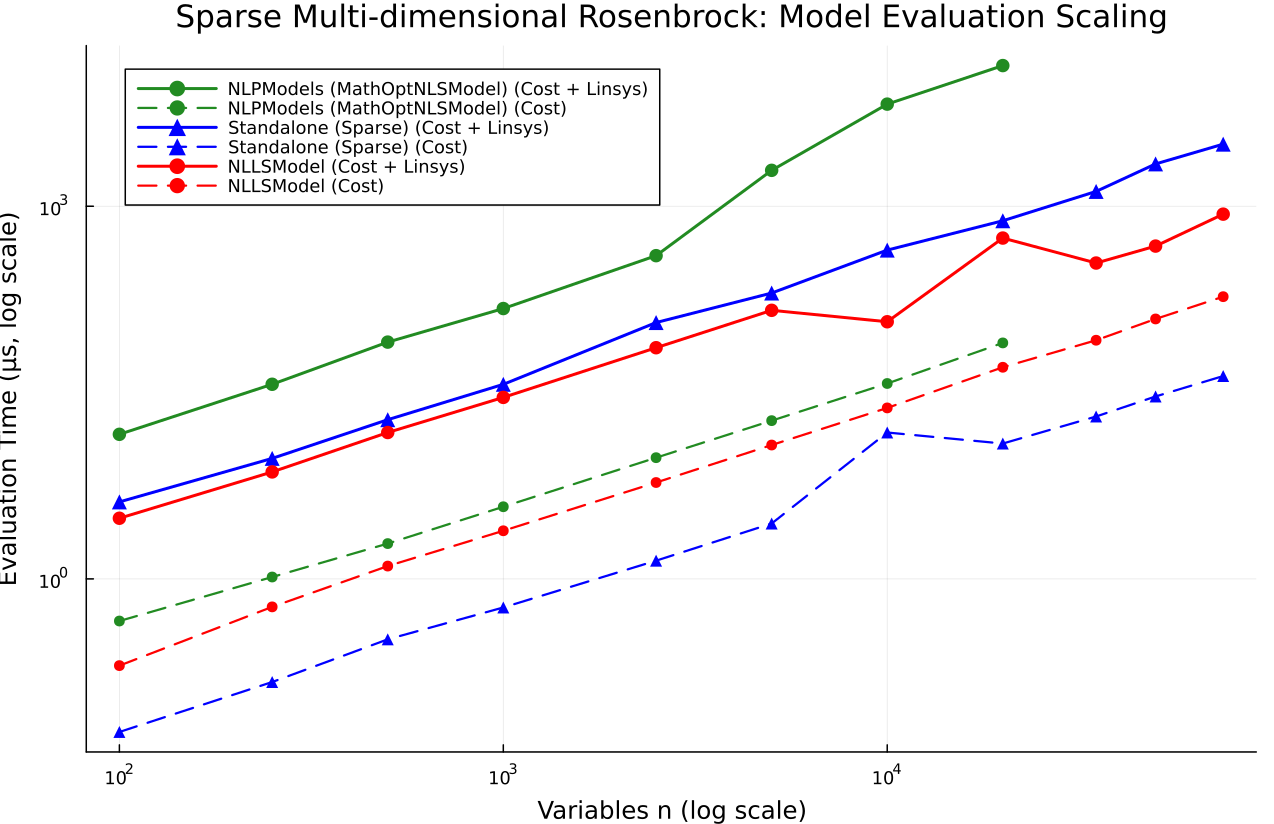
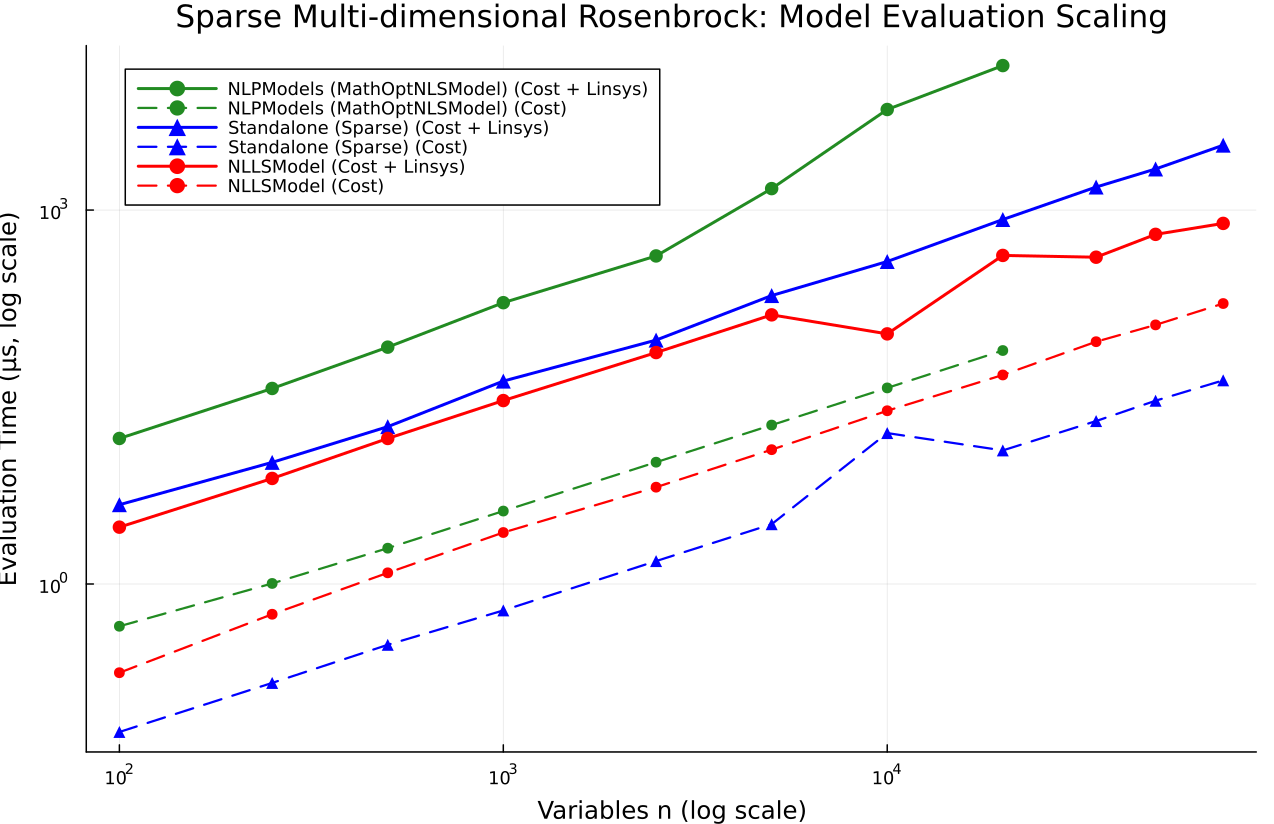
Update rosenbrock sparse results

diff --git a/docs/src/data/rosenbrock_sparse.md b/docs/src/data/rosenbrock_sparse.md
@@ -4,11 +4,11 @@
 - **Scaling Metric**: Variables n
 - **Optimizer Target Model**: Standalone (Sparse)
 - **Convergence Criteria**: gtol=1.0e-8, xtol=1.0e-8, ftol=1.0e-8, maxiters=500, maxtime=30.0s
-- **Benchmark Date**: 2026-11-07T21:02:37
+- **Benchmark Date**: 2026-11-08T23:40:26
 - **Host CPU**: apple-m1 (10 cores)
 - **OS**: Darwin (arm64-apple-darwin27.0.0)
 - **Julia Version**: 1.13.3
-- **Git Commit**: b448285
+- **Git Commit**: 42d352d
 
 ---
 
@@ -16,36 +16,36 @@
 
 | Size | Model | Cost Time (ns) | Cost Allocs | Cost Memory (bytes) | Linsys Time (ns) | Linsys Allocs | Linsys Memory (bytes) |
 |:---|:---|---:|---:|---:|---:|---:|---:|
-| 100 | NLLSModel | 200.4 | 0 | 0 | 3077.4285714285716 | 0 | 0 |
-| 100 | Standalone (Sparse) | 58.56643356643357 | 0 | 0 | 4166.6 | 21 | 18480 |
-| 100 | NLPModels (MathOptNLSModel) | 458.0 | 5 | 80 | 14584.0 | 9 | 224 |
-| 250 | NLLSModel | 595.2571428571429 | 0 | 0 | 7263.666666666667 | 0 | 0 |
-| 250 | Standalone (Sparse) | 147.7863247863248 | 0 | 0 | 9334.0 | 22 | 43776 |
-| 250 | NLPModels (MathOptNLSModel) | 1035.4 | 5 | 80 | 36875.0 | 9 | 224 |
-| 500 | NLLSModel | 1268.25 | 0 | 0 | 15084.0 | 0 | 0 |
-| 500 | Standalone (Sparse) | 326.1551724137931 | 0 | 0 | 19125.0 | 23 | 87088 |
-| 500 | NLPModels (MathOptNLSModel) | 1924.2727272727273 | 5 | 80 | 80583.0 | 9 | 224 |
-| 1000 | NLLSModel | 2439.777777777778 | 0 | 0 | 28916.0 | 0 | 0 |
-| 1000 | Standalone (Sparse) | 588.7096774193549 | 0 | 0 | 36833.0 | 23 | 173648 |
-| 1000 | NLPModels (MathOptNLSModel) | 3808.4 | 5 | 80 | 150125.0 | 9 | 224 |
-| 2500 | NLLSModel | 5968.75 | 0 | 0 | 72625.0 | 0 | 0 |
-| 2500 | Standalone (Sparse) | 1401.7857142857142 | 0 | 0 | 115792.0 | 24 | 465968 |
-| 2500 | NLPModels (MathOptNLSModel) | 9458.0 | 5 | 80 | 400083.0 | 9 | 224 |
-| 5000 | NLLSModel | 11958.0 | 0 | 0 | 145250.0 | 0 | 0 |
-| 5000 | Standalone (Sparse) | 2791.714285714286 | 0 | 0 | 200167.0 | 24 | 890416 |
-| 5000 | NLPModels (MathOptNLSModel) | 18792.0 | 5 | 80 | 1.945625e6 | 9 | 224 |
-| 10000 | NLLSModel | 23792.0 | 0 | 0 | 117500.0 | 3 | 3504 |
-| 10000 | Standalone (Sparse) | 15083.0 | 0 | 0 | 443583.0 | 24 | 1731120 |
-| 10000 | NLPModels (MathOptNLSModel) | 37417.0 | 5 | 80 | 6.638083e6 | 9 | 224 |
-| 20000 | NLLSModel | 50542.0 | 0 | 0 | 554417.0 | 3 | 3504 |
-| 20000 | Standalone (Sparse) | 12292.0 | 0 | 0 | 764083.0 | 24 | 3428912 |
-| 20000 | NLPModels (MathOptNLSModel) | 79375.0 | 5 | 80 | 1.356575e7 | 9 | 224 |
-| 35000 | NLLSModel | 83417.0 | 0 | 0 | 348958.0 | 3 | 3504 |
-| 35000 | Standalone (Sparse) | 20292.0 | 0 | 0 | 1.31625e6 | 24 | 5964336 |
-| 50000 | NLLSModel | 123750.0 | 0 | 0 | 477750.0 | 3 | 3504 |
-| 50000 | Standalone (Sparse) | 29417.0 | 0 | 0 | 2.19125e6 | 24 | 8487472 |
-| 75000 | NLLSModel | 187041.0 | 0 | 0 | 863709.0 | 3 | 3504 |
-| 75000 | Standalone (Sparse) | 42959.0 | 0 | 0 | 3.161542e6 | 24 | 12649008 |
+| 100 | NLLSModel | 194.1747572815534 | 0 | 0 | 2857.1428571428573 | 0 | 0 |
+| 100 | Standalone (Sparse) | 64.97552447552448 | 0 | 0 | 4325.0 | 21 | 18480 |
+| 100 | NLPModels (MathOptNLSModel) | 458.0 | 5 | 80 | 14709.0 | 9 | 224 |
+| 250 | NLLSModel | 571.7777777777778 | 0 | 0 | 7027.666666666667 | 0 | 0 |
+| 250 | Standalone (Sparse) | 160.8181818181818 | 0 | 0 | 9458.0 | 22 | 43776 |
+| 250 | NLPModels (MathOptNLSModel) | 1009.952380952381 | 5 | 80 | 37041.0 | 9 | 224 |
+| 500 | NLLSModel | 1229.1875 | 0 | 0 | 14708.0 | 0 | 0 |
+| 500 | Standalone (Sparse) | 325.14285714285717 | 0 | 0 | 18292.0 | 23 | 87088 |
+| 500 | NLPModels (MathOptNLSModel) | 1937.5 | 5 | 80 | 79458.0 | 9 | 224 |
+| 1000 | NLLSModel | 2588.5 | 0 | 0 | 29625.0 | 0 | 0 |
+| 1000 | Standalone (Sparse) | 613.6363636363636 | 0 | 0 | 42458.0 | 23 | 173648 |
+| 1000 | NLPModels (MathOptNLSModel) | 3847.1666666666665 | 5 | 80 | 180709.0 | 9 | 224 |
+| 2500 | NLLSModel | 5979.25 | 0 | 0 | 71916.0 | 0 | 0 |
+| 2500 | Standalone (Sparse) | 1526.7857142857142 | 0 | 0 | 90542.0 | 24 | 465968 |
+| 2500 | NLPModels (MathOptNLSModel) | 9486.333333333334 | 5 | 80 | 428541.0 | 9 | 224 |
+| 5000 | NLLSModel | 11958.0 | 0 | 0 | 144292.0 | 0 | 0 |
+| 5000 | Standalone (Sparse) | 3017.8571428571427 | 0 | 0 | 206083.0 | 24 | 890416 |
+| 5000 | NLPModels (MathOptNLSModel) | 18833.0 | 5 | 80 | 1.4865e6 | 9 | 224 |
+| 10000 | NLLSModel | 24542.0 | 0 | 0 | 101541.0 | 3 | 3504 |
+| 10000 | Standalone (Sparse) | 16250.0 | 0 | 0 | 386625.0 | 24 | 1731120 |
+| 10000 | NLPModels (MathOptNLSModel) | 37416.0 | 5 | 80 | 6.408959e6 | 9 | 224 |
+| 20000 | NLLSModel | 47542.0 | 0 | 0 | 432583.0 | 3 | 3504 |
+| 20000 | Standalone (Sparse) | 11792.0 | 0 | 0 | 839583.0 | 24 | 3428912 |
+| 20000 | NLPModels (MathOptNLSModel) | 74667.0 | 5 | 80 | 1.4429292e7 | 9 | 224 |
+| 35000 | NLLSModel | 87875.0 | 0 | 0 | 418500.0 | 3 | 3504 |
+| 35000 | Standalone (Sparse) | 20292.0 | 0 | 0 | 1.530333e6 | 24 | 5964336 |
+| 50000 | NLLSModel | 119875.0 | 0 | 0 | 638458.0 | 3 | 3504 |
+| 50000 | Standalone (Sparse) | 29542.0 | 0 | 0 | 2.136667e6 | 24 | 8487472 |
+| 75000 | NLLSModel | 177875.0 | 0 | 0 | 781583.0 | 3 | 3504 |
+| 75000 | Standalone (Sparse) | 43041.0 | 0 | 0 | 3.313709e6 | 24 | 12649008 |
 
 ---
 
@@ -55,146 +55,146 @@ Solvers evaluated on their respective optimal model representations (e.g. `NLLSM
 
 | Size | Optimizer | Runtime (ns) | Allocs | Memory (bytes) | Iterations | Final Cost | Converged |
 |:---|:---|---:|---:|---:|---:|---:|:---|
-| 100 | SecondOrderOptimization (Dogleg) | 125125.0 | 196 | 111408 | 16 | 0.0000e+00 | true |
-| 100 | SecondOrderOptimization (LM) | 147375.0 | 197 | 113184 | 16 | 1.4005e-21 | true |
-| 100 | LeastSquaresOptim (Dogleg) | 921895.5 | 257 | 56992 | 33 | 8.2795e-27 | true |
-| 100 | LeastSquaresOptim (LM) | 1.0517915e6 | 291 | 57472 | 33 | 4.4801e-17 | true |
+| 100 | SecondOrderOptimization (Dogleg) | 60083.5 | 202 | 114144 | 5 | 0.0000e+00 | true |
+| 100 | SecondOrderOptimization (LM) | 63375.0 | 203 | 115920 | 5 | 0.0000e+00 | true |
+| 100 | LeastSquaresOptim (Dogleg) | 135604.0 | 75 | 21888 | 5 | 5.0660e-28 | true |
+| 100 | LeastSquaresOptim (LM) | 120020.5 | 137 | 19664 | 17 | 1.6425e-15 | true |
 | 100 | Optim (NewtonTrustRegion) | NaN | 0 | 0 | 0 | NaN | false |
-| 100 | Optim (Newton) | 1.343562e6 | 3220 | 2229152 | 33 | 1.2351e-29 | true |
-| 100 | JSOSolvers (trunk) | 2.353667e6 | 956 | 70784 | 20 | 6.6210e-18 | false |
-| 100 | JSOSolvers (tron) | 1.8490205e6 | 729 | 61824 | 16 | 1.3012e-20 | true |
-| 100 | Ipopt | 6.061791e6 | 1766 | 253072 | 23 | 4.5740e-22 | true |
+| 100 | Optim (Newton) | 210354.0 | 536 | 371360 | 5 | 0.0000e+00 | true |
+| 100 | JSOSolvers (trunk) | 576417.0 | 426 | 45344 | 7 | 9.2500e-17 | false |
+| 100 | JSOSolvers (tron) | 987500.0 | 422 | 47088 | 6 | 5.1615e-17 | false |
+| 100 | Ipopt | 1.511875e6 | 534 | 110160 | 5 | 1.3564e-29 | true |
 | 100 | MadNLP | NaN | 0 | 0 | 0 | NaN | false |
-| 100 | NonlinearSolve (LM) | 1.09292295e7 | 691 | 449456 | 39 | 9.1612e-19 | true |
-| 100 | NonlinearSolve (TrustRegion) | 842271.0 | 876 | 517888 | 26 | 1.4840e-29 | true |
-| 100 | CaNNOLeS | 369313.0 | 238 | 178272 | 14 | 3.0735e-17 | true |
-| 250 | SecondOrderOptimization (Dogleg) | 304166.5 | 205 | 256816 | 14 | 0.0000e+00 | true |
-| 250 | SecondOrderOptimization (LM) | 382541.5 | 206 | 261040 | 15 | 1.4849e-19 | true |
-| 250 | LeastSquaresOptim (Dogleg) | 2.2363125e6 | 276 | 79216 | 35 | 0.0000e+00 | true |
-| 250 | LeastSquaresOptim (LM) | 2.0771045e6 | 290 | 72784 | 33 | 2.2900e-17 | true |
+| 100 | NonlinearSolve (LM) | 2.298979e6 | 691 | 449456 | 8 | 1.3891e-18 | true |
+| 100 | NonlinearSolve (TrustRegion) | 207708.0 | 2422 | 409568 | 4 | 3.3466e-17 | true |
+| 100 | CaNNOLeS | 140687.5 | 218 | 177312 | 4 | 3.3466e-17 | true |
+| 250 | SecondOrderOptimization (Dogleg) | 180603.5 | 211 | 263136 | 5 | 0.0000e+00 | true |
+| 250 | SecondOrderOptimization (LM) | 189625.0 | 212 | 267360 | 5 | 0.0000e+00 | true |
+| 250 | LeastSquaresOptim (Dogleg) | 304271.0 | 78 | 40816 | 5 | 5.7069e-28 | true |
+| 250 | LeastSquaresOptim (LM) | 290000.0 | 146 | 37936 | 18 | 8.3212e-16 | true |
 | 250 | Optim (NewtonTrustRegion) | NaN | 0 | 0 | 0 | NaN | false |
-| 250 | Optim (Newton) | 2.5099165e6 | 4319 | 5128848 | 33 | 0.0000e+00 | true |
-| 250 | JSOSolvers (trunk) | 5.503583e6 | 939 | 97152 | 20 | 1.5854e-18 | false |
-| 250 | JSOSolvers (tron) | 6.063812e6 | 875 | 106432 | 23 | 4.1438e-20 | true |
-| 250 | Ipopt | 1.25930835e7 | 1779 | 473680 | 23 | 2.7357e-21 | true |
+| 250 | Optim (Newton) | 388417.0 | 559 | 851664 | 5 | 0.0000e+00 | true |
+| 250 | JSOSolvers (trunk) | 1.128542e6 | 433 | 73104 | 7 | 1.0154e-16 | false |
+| 250 | JSOSolvers (tron) | 2.229041e6 | 429 | 85024 | 6 | 5.1615e-17 | false |
+| 250 | Ipopt | 3.0306455e6 | 543 | 204016 | 5 | 1.3564e-29 | true |
 | 250 | MadNLP | NaN | 0 | 0 | 0 | NaN | false |
-| 250 | NonlinearSolve (LM) | 6.4497479e7 | 698 | 2017552 | 39 | 9.1612e-19 | true |
-| 250 | NonlinearSolve (TrustRegion) | 3.346958e6 | 862 | 1743920 | 21 | 2.7930e-18 | true |
-| 250 | CaNNOLeS | 921916.5 | 252 | 404704 | 14 | 9.7316e-17 | true |
-| 500 | SecondOrderOptimization (Dogleg) | 492146.0 | 248 | 518768 | 13 | 3.6323e-28 | true |
-| 500 | SecondOrderOptimization (LM) | 641791.5 | 248 | 527040 | 15 | 1.2314e-17 | true |
-| 500 | LeastSquaresOptim (Dogleg) | 3.5447915e6 | 230 | 105536 | 26 | 2.2908e-29 | true |
-| 500 | LeastSquaresOptim (LM) | 4.034625e6 | 307 | 104624 | 34 | 1.8856e-17 | true |
+| 250 | NonlinearSolve (LM) | 1.35786255e7 | 1238 | 2026192 | 8 | 3.2714e-18 | true |
+| 250 | NonlinearSolve (TrustRegion) | 726375.0 | 726 | 1497760 | 4 | 3.3466e-17 | true |
+| 250 | CaNNOLeS | 325875.0 | 232 | 403744 | 4 | 3.3466e-17 | true |
+| 500 | SecondOrderOptimization (Dogleg) | 246479.5 | 254 | 531232 | 5 | 0.0000e+00 | true |
+| 500 | SecondOrderOptimization (LM) | 257166.5 | 254 | 539504 | 5 | 0.0000e+00 | true |
+| 500 | LeastSquaresOptim (Dogleg) | 575708.5 | 88 | 74224 | 5 | 5.7562e-28 | true |
+| 500 | LeastSquaresOptim (LM) | 546520.5 | 155 | 69664 | 18 | 7.3225e-16 | true |
 | 500 | Optim (NewtonTrustRegion) | NaN | 0 | 0 | 0 | NaN | false |
-| 500 | Optim (Newton) | 4.0716875e6 | 3465 | 10149104 | 33 | 0.0000e+00 | true |
-| 500 | JSOSolvers (trunk) | 1.0501333e7 | 934 | 143952 | 20 | 4.0510e-17 | false |
-| 500 | JSOSolvers (tron) | 1.26630835e7 | 965 | 176320 | 22 | 4.6034e-19 | true |
-| 500 | Ipopt | 2.3954125e7 | 1918 | 900864 | 23 | 2.7357e-21 | true |
+| 500 | Optim (Newton) | 627146.5 | 585 | 1690032 | 5 | 0.0000e+00 | true |
+| 500 | JSOSolvers (trunk) | 2.239667e6 | 445 | 120480 | 7 | 9.5090e-17 | false |
+| 500 | JSOSolvers (tron) | 4.427208e6 | 446 | 151408 | 6 | 5.1615e-17 | false |
+| 500 | Ipopt | 5.3405415e6 | 574 | 404832 | 5 | 1.3564e-29 | true |
 | 500 | MadNLP | NaN | 0 | 0 | 0 | NaN | false |
-| 500 | NonlinearSolve (LM) | 2.198572085e8 | 13925 | 86749760 | 39 | 9.1613e-19 | true |
-| 500 | NonlinearSolve (TrustRegion) | 1.4650375e7 | 965 | 7768416 | 25 | 1.1967e-28 | true |
-| 500 | CaNNOLeS | 1.819208e6 | 266 | 796352 | 14 | 9.7316e-17 | true |
-| 1000 | SecondOrderOptimization (Dogleg) | 966396.0 | 253 | 1013184 | 13 | 0.0000e+00 | true |
-| 1000 | SecondOrderOptimization (LM) | 1.4184165e6 | 253 | 1029648 | 16 | 6.6270e-22 | true |
-| 1000 | LeastSquaresOptim (Dogleg) | 7.6614375e6 | 246 | 174768 | 29 | 0.0000e+00 | true |
-| 1000 | LeastSquaresOptim (LM) | 8.94275e6 | 347 | 165200 | 41 | 3.5043e-17 | true |
+| 500 | NonlinearSolve (LM) | 4.17793335e7 | 3324 | 18064688 | 8 | 6.4152e-18 | true |
+| 500 | NonlinearSolve (TrustRegion) | 2.6013755e6 | 776 | 6490528 | 4 | 3.3466e-17 | true |
+| 500 | CaNNOLeS | 673479.5 | 246 | 795392 | 4 | 3.3466e-17 | true |
+| 1000 | SecondOrderOptimization (Dogleg) | 503270.5 | 259 | 1037936 | 5 | 0.0000e+00 | true |
+| 1000 | SecondOrderOptimization (LM) | 506354.0 | 259 | 1054400 | 5 | 0.0000e+00 | true |
+| 1000 | LeastSquaresOptim (Dogleg) | 1.205084e6 | 88 | 140080 | 5 | 5.7562e-28 | true |
+| 1000 | LeastSquaresOptim (LM) | 1.118354e6 | 149 | 131872 | 17 | 5.7105e-15 | true |
 | 1000 | Optim (NewtonTrustRegion) | NaN | 0 | 0 | 0 | NaN | false |
-| 1000 | Optim (Newton) | 8.092688e6 | 3597 | 20213104 | 33 | 0.0000e+00 | true |
-| 1000 | JSOSolvers (trunk) | 2.0750833e7 | 936 | 238192 | 20 | 5.9308e-18 | false |
-| 1000 | JSOSolvers (tron) | 1.90674795e7 | 769 | 298048 | 16 | 1.4045e-18 | true |
-| 1000 | Ipopt | 4.7574417e7 | 1922 | 1762912 | 23 | 2.7357e-21 | true |
+| 1000 | Optim (Newton) | 1.1169995e6 | 605 | 3364784 | 5 | 0.0000e+00 | true |
+| 1000 | JSOSolvers (trunk) | 3.550792e6 | 447 | 214720 | 7 | 8.5552e-17 | false |
+| 1000 | JSOSolvers (tron) | 8.837958e6 | 447 | 282592 | 6 | 5.1615e-17 | false |
+| 1000 | Ipopt | 1.0340771e7 | 578 | 824512 | 5 | 1.3564e-29 | true |
 | 1000 | MadNLP | NaN | 0 | 0 | 0 | NaN | false |
-| 1000 | NonlinearSolve (LM) | 7.34786854e8 | 13588 | 166264592 | 39 | 9.1613e-19 | true |
-| 1000 | NonlinearSolve (TrustRegion) | 1.27880205e7 | 4744 | 37810688 | 25 | 0.0000e+00 | true |
-| 1000 | CaNNOLeS | 3.5638745e6 | 270 | 1611520 | 14 | 9.7316e-17 | true |
-| 2500 | SecondOrderOptimization (Dogleg) | 2.4846455e6 | 259 | 2642976 | 14 | 1.2351e-29 | true |
-| 2500 | SecondOrderOptimization (LM) | 3.3190835e6 | 259 | 2688112 | 15 | 7.4722e-20 | true |
-| 2500 | LeastSquaresOptim (Dogleg) | 1.9871646e7 | 238 | 401056 | 27 | 0.0000e+00 | true |
-| 2500 | LeastSquaresOptim (LM) | 2.2626146e7 | 315 | 381152 | 36 | 9.6888e-19 | true |
+| 1000 | NonlinearSolve (LM) | 1.52300417e8 | 3288 | 34639952 | 8 | 1.2694e-17 | true |
+| 1000 | NonlinearSolve (TrustRegion) | 2.0331875e6 | 1217 | 6387984 | 4 | 3.3466e-17 | true |
+| 1000 | CaNNOLeS | 1.320812e6 | 250 | 1610560 | 4 | 3.3466e-17 | true |
+| 2500 | SecondOrderOptimization (Dogleg) | 1.236187e6 | 265 | 2708688 | 5 | 0.0000e+00 | true |
+| 2500 | SecondOrderOptimization (LM) | 1.2684375e6 | 265 | 2753824 | 5 | 0.0000e+00 | true |
+| 2500 | LeastSquaresOptim (Dogleg) | 3.1575e6 | 88 | 362304 | 5 | 5.7562e-28 | true |
+| 2500 | LeastSquaresOptim (LM) | 2.990083e6 | 149 | 344304 | 17 | 5.1568e-15 | true |
 | 2500 | Optim (NewtonTrustRegion) | NaN | 0 | 0 | 0 | NaN | false |
-| 2500 | Optim (Newton) | 1.73642705e7 | 3800 | 53555136 | 33 | 0.0000e+00 | true |
-| 2500 | JSOSolvers (trunk) | 4.77130625e7 | 617 | 548608 | 20 | 1.7148e-19 | true |
-| 2500 | JSOSolvers (tron) | 6.8814459e7 | 1012 | 760480 | 21 | 1.3105e-17 | false |
-| 2500 | Ipopt | 1.16532667e8 | 1426 | 3276816 | 18 | 3.0293e-28 | true |
+| 2500 | Optim (Newton) | 2.6702085e6 | 611 | 8907504 | 5 | 0.0000e+00 | true |
+| 2500 | JSOSolvers (trunk) | 9.616417e6 | 447 | 546496 | 7 | 7.4927e-17 | false |
+| 2500 | JSOSolvers (tron) | 2.3640375e7 | 448 | 733408 | 6 | 5.1615e-17 | false |
+| 2500 | Ipopt | 2.6839458e7 | 582 | 2055232 | 5 | 1.3564e-29 | true |
 | 2500 | MadNLP | NaN | 0 | 0 | 0 | NaN | false |
-| 2500 | NonlinearSolve (LM) | 5.815148917e9 | 755 | 163347728 | 39 | 9.1612e-19 | true |
-| 2500 | NonlinearSolve (TrustRegion) | 3.06482085e7 | 4783 | 97643504 | 25 | 0.0000e+00 | true |
-| 2500 | CaNNOLeS | 1.1406167e7 | 272 | 4208416 | 14 | 9.7316e-17 | true |
-| 5000 | SecondOrderOptimization (Dogleg) | 1.32495979e8 | 259 | 5450576 | 422 | 1.3376e-28 | true |
-| 5000 | SecondOrderOptimization (LM) | 7.978271e6 | 259 | 5532576 | 21 | 3.5660e-21 | true |
-| 5000 | LeastSquaresOptim (Dogleg) | 4.0197083e7 | 266 | 800160 | 33 | 0.0000e+00 | true |
-| 5000 | LeastSquaresOptim (LM) | 4.8324125e7 | 357 | 755264 | 42 | 2.2955e-17 | true |
+| 2500 | NonlinearSolve (LM) | 1.1749245e9 | 755 | 163347728 | 8 | 3.1500e-17 | true |
+| 2500 | NonlinearSolve (TrustRegion) | 4.9687915e6 | 1221 | 16505680 | 4 | 3.3466e-17 | true |
+| 2500 | CaNNOLeS | 4.553771e6 | 252 | 4207456 | 4 | 3.3466e-17 | true |
+| 5000 | SecondOrderOptimization (Dogleg) | 2.567979e6 | 265 | 5581824 | 5 | 0.0000e+00 | true |
+| 5000 | SecondOrderOptimization (LM) | 2.6217085e6 | 265 | 5663824 | 5 | 0.0000e+00 | true |
+| 5000 | LeastSquaresOptim (Dogleg) | 5.819521e6 | 88 | 748848 | 5 | 5.7562e-28 | true |
+| 5000 | LeastSquaresOptim (LM) | 5.8269585e6 | 148 | 704928 | 17 | 3.7472e-15 | true |
 | 5000 | Optim (NewtonTrustRegion) | NaN | 0 | 0 | 0 | NaN | false |
-| 5000 | Optim (Newton) | 4.3165125e7 | 4623 | 133891120 | 41 | 0.0000e+00 | true |
-| 5000 | JSOSolvers (trunk) | 1.38747646e8 | 625 | 1060992 | 20 | 5.9684e-19 | true |
-| 5000 | JSOSolvers (tron) | 2.71138812e8 | 1230 | 1516720 | 34 | 1.1854e-20 | true |
-| 5000 | Ipopt | 2.78401479e8 | 1430 | 7043184 | 18 | 3.0293e-28 | true |
+| 5000 | Optim (Newton) | 5.695667e6 | 611 | 18003696 | 5 | 0.0000e+00 | true |
+| 5000 | JSOSolvers (trunk) | 3.2939625e7 | 447 | 1058496 | 7 | 6.9280e-17 | false |
+| 5000 | JSOSolvers (tron) | 7.2361667e7 | 448 | 1479184 | 6 | 5.1615e-17 | false |
+| 5000 | Ipopt | 5.8255958e7 | 586 | 4158624 | 5 | 1.3564e-29 | true |
 | 5000 | MadNLP | NaN | 0 | 0 | 0 | NaN | false |
-| 5000 | NonlinearSolve (LM) | 1.7477465334e10 | 13720 | 823889168 | 39 | 9.1613e-19 | true |
-| 5000 | NonlinearSolve (TrustRegion) | 7.7532979e7 | 5771 | 235775408 | 31 | 0.0000e+00 | true |
-| 5000 | CaNNOLeS | 2.7735625e7 | 274 | 8206144 | 14 | 9.7316e-17 | true |
-| 10000 | SecondOrderOptimization (Dogleg) | 1.12417416e8 | 1022 | 12575136 | 240 | 3.3325e+01 | true |
-| 10000 | SecondOrderOptimization (LM) | 1.29244795e7 | 371 | 11978688 | 21 | 3.5662e-21 | true |
+| 5000 | NonlinearSolve (LM) | 4.032799542e9 | 3762 | 192710320 | 9 | 3.3743e-24 | true |
+| 5000 | NonlinearSolve (TrustRegion) | 1.01598335e7 | 1249 | 32255248 | 4 | 3.3466e-17 | true |
+| 5000 | CaNNOLeS | 1.18515415e7 | 254 | 8205184 | 4 | 3.3466e-17 | true |
+| 10000 | SecondOrderOptimization (Dogleg) | 4.819479e6 | 326 | 12001136 | 5 | 0.0000e+00 | true |
+| 10000 | SecondOrderOptimization (LM) | 4.660188e6 | 326 | 12165056 | 5 | 0.0000e+00 | true |
 | 10000 | LeastSquaresOptim (Dogleg) | NaN | 0 | 0 | 0 | NaN | false |
-| 10000 | LeastSquaresOptim (LM) | 9.3456125e7 | 361 | 1324624 | 43 | 2.8014e-17 | true |
+| 10000 | LeastSquaresOptim (LM) | 1.1484604e7 | 148 | 1257296 | 17 | 1.2073e-15 | true |
 | 10000 | Optim (NewtonTrustRegion) | NaN | 0 | 0 | 0 | NaN | false |
-| 10000 | Optim (Newton) | 8.51444375e7 | 4635 | 249253104 | 41 | 0.0000e+00 | true |
-| 10000 | JSOSolvers (trunk) | 5.90879083e8 | 895 | 1931968 | 20 | 1.1534e-17 | false |
-| 10000 | JSOSolvers (tron) | 7.69420042e8 | 994 | 2669344 | 21 | 5.7840e-18 | false |
-| 10000 | Ipopt | 7.892203125e8 | 1446 | 12519088 | 18 | 3.0293e-28 | true |
+| 10000 | Optim (Newton) | 1.07576245e7 | 635 | 33501296 | 5 | 0.0000e+00 | true |
+| 10000 | JSOSolvers (trunk) | 1.13265167e8 | 447 | 1910464 | 7 | 6.5636e-17 | false |
+| 10000 | JSOSolvers (tron) | 2.87586292e8 | 450 | 2643232 | 6 | 5.1615e-17 | false |
+| 10000 | Ipopt | 1.255841875e8 | 602 | 7733984 | 5 | 1.3564e-29 | true |
 | 10000 | MadNLP | NaN | 0 | 0 | 0 | NaN | false |
-| 10000 | NonlinearSolve (LM) | 3.0406518083e10 | 6324 | 709924624 | 17 | 2.6682e+00 | false |
-| 10000 | NonlinearSolve (TrustRegion) | 1.7861375e8 | 4927 | 381488880 | 26 | 2.0443e-29 | true |
-| 10000 | CaNNOLeS | 9.0686625e7 | 276 | 15972192 | 14 | 9.7316e-17 | true |
-| 20000 | SecondOrderOptimization (Dogleg) | 1.47126875e7 | 333 | 23466576 | 10 | 1.9933e+00 | true |
-| 20000 | SecondOrderOptimization (LM) | 3.44314165e7 | 372 | 23839888 | 21 | 3.5665e-21 | true |
+| 10000 | NonlinearSolve (LM) | 1.6102061e10 | 3608 | 376851792 | 9 | 5.7344e-24 | true |
+| 10000 | NonlinearSolve (TrustRegion) | 1.9724875e7 | 1255 | 61926768 | 4 | 3.3466e-17 | true |
+| 10000 | CaNNOLeS | 3.1615584e7 | 256 | 15971232 | 4 | 3.3466e-17 | true |
+| 20000 | SecondOrderOptimization (Dogleg) | 9.267604e6 | 327 | 23944256 | 5 | 0.0000e+00 | true |
+| 20000 | SecondOrderOptimization (LM) | 9.841083e6 | 327 | 24272016 | 5 | 0.0000e+00 | true |
 | 20000 | LeastSquaresOptim (Dogleg) | NaN | 0 | 0 | 0 | NaN | false |
-| 20000 | LeastSquaresOptim (LM) | 1.827208335e8 | 390 | 2602080 | 41 | 1.4274e-17 | true |
+| 20000 | LeastSquaresOptim (LM) | 2.1935291e7 | 158 | 2504224 | 16 | 3.3775e-15 | true |
 | 20000 | Optim (NewtonTrustRegion) | NaN | 0 | 0 | 0 | NaN | false |
-| 20000 | Optim (Newton) | 1.699983125e8 | 4648 | 497016256 | 41 | 0.0000e+00 | true |
-| 20000 | JSOSolvers (trunk) | 1.625122792e9 | 845 | 3813728 | 19 | 1.1667e-18 | false |
-| 20000 | JSOSolvers (tron) | 2.480664e9 | 923 | 5288560 | 17 | 1.6291e-18 | true |
-| 20000 | Ipopt | 2.422930417e9 | 1457 | 24994656 | 18 | 3.0293e-28 | true |
+| 20000 | Optim (Newton) | 2.11689585e7 | 654 | 66789792 | 5 | 0.0000e+00 | true |
+| 20000 | JSOSolvers (trunk) | 3.61477458e8 | 447 | 3794624 | 7 | 6.3520e-17 | false |
+| 20000 | JSOSolvers (tron) | 9.88060833e8 | 451 | 5265904 | 6 | 5.1615e-17 | false |
+| 20000 | Ipopt | 2.779175e8 | 606 | 15458080 | 5 | 1.3564e-29 | true |
 | 20000 | MadNLP | NaN | 0 | 0 | 0 | NaN | false |
-| 20000 | NonlinearSolve (LM) | 3.5422307834e10 | 2292 | 461556496 | 5 | 4.3434e+04 | false |
-| 20000 | NonlinearSolve (TrustRegion) | 4.14191042e8 | 5781 | 931792464 | 31 | 0.0000e+00 | true |
-| 20000 | CaNNOLeS | 2.2566075e8 | 278 | 31766400 | 14 | 9.7316e-17 | true |
-| 35000 | SecondOrderOptimization (Dogleg) | 4.12053955e7 | 342 | 41907552 | 13 | 1.9933e+00 | true |
-| 35000 | SecondOrderOptimization (LM) | 6.0250625e7 | 372 | 42499728 | 21 | 3.5671e-21 | true |
+| 20000 | NonlinearSolve (LM) | 3.5557180542e10 | 2292 | 436849424 | 5 | 5.3623e-02 | false |
+| 20000 | NonlinearSolve (TrustRegion) | 3.95820835e7 | 1253 | 126872912 | 4 | 3.3466e-17 | true |
+| 20000 | CaNNOLeS | 7.7615584e7 | 258 | 31765440 | 4 | 3.3466e-17 | true |
+| 35000 | SecondOrderOptimization (Dogleg) | 2.189925e7 | 327 | 42784320 | 5 | 0.0000e+00 | true |
+| 35000 | SecondOrderOptimization (LM) | 1.7465958e7 | 327 | 43341456 | 5 | 0.0000e+00 | true |
 | 35000 | LeastSquaresOptim (Dogleg) | NaN | 0 | 0 | 0 | NaN | false |
 | 35000 | LeastSquaresOptim (LM) | NaN | 0 | 0 | 0 | NaN | false |
 | 35000 | Optim (NewtonTrustRegion) | NaN | 0 | 0 | 0 | NaN | false |
-| 35000 | Optim (Newton) | 3.05684979e8 | 4639 | 871595312 | 41 | 0.0000e+00 | true |
-| 35000 | JSOSolvers (trunk) | 1.17818458e8 | 347 | 6706176 | 20 | 2.6823e-18 | false |
-| 35000 | JSOSolvers (tron) | 1.70470042e8 | 150 | 9333632 | 20 | 4.2684e-19 | true |
-| 35000 | Ipopt | 2.907819165e8 | 1596 | 170809104 | 18 | 0.0000e+00 | true |
-| 35000 | MadNLP | 2.41832541e8 | 1363 | 186835424 | 18 | 0.0000e+00 | true |
+| 35000 | Optim (Newton) | 3.6378708e7 | 619 | 117112688 | 5 | 0.0000e+00 | true |
+| 35000 | JSOSolvers (trunk) | 4.6939875e7 | 347 | 6706176 | 7 | 6.2538e-17 | false |
+| 35000 | JSOSolvers (tron) | 6.8965666e7 | 150 | 9333632 | 6 | 5.1615e-17 | false |
+| 35000 | Ipopt | 8.42407085e7 | 460 | 48512000 | 5 | 0.0000e+00 | true |
+| 35000 | MadNLP | 4.97935625e7 | 817 | 64565744 | 5 | 0.0000e+00 | true |
 | 35000 | NonlinearSolve (LM) | NaN | 0 | 0 | 0 | NaN | false |
 | 35000 | NonlinearSolve (TrustRegion) | NaN | 0 | 0 | 0 | NaN | false |
-| 35000 | CaNNOLeS | 8.1304542e7 | 228 | 59038592 | 14 | 9.7316e-17 | true |
-| 50000 | SecondOrderOptimization (Dogleg) | 3.31271875e7 | 327 | 62142704 | 8 | 0.0000e+00 | true |
-| 50000 | SecondOrderOptimization (LM) | 6.6550125e7 | 372 | 61638288 | 21 | 3.5677e-21 | true |
+| 35000 | CaNNOLeS | 2.9620646e7 | 228 | 59677568 | 4 | 3.3466e-17 | true |
+| 50000 | SecondOrderOptimization (Dogleg) | 2.52000205e7 | 327 | 61824576 | 5 | 0.0000e+00 | true |
+| 50000 | SecondOrderOptimization (LM) | 2.5395375e7 | 327 | 62791312 | 5 | 0.0000e+00 | true |
 | 50000 | LeastSquaresOptim (Dogleg) | NaN | 0 | 0 | 0 | NaN | false |
 | 50000 | LeastSquaresOptim (LM) | NaN | 0 | 0 | 0 | NaN | false |
 | 50000 | Optim (NewtonTrustRegion) | NaN | 0 | 0 | 0 | NaN | false |
-| 50000 | Optim (Newton) | 4.19288625e8 | 4635 | 1251261680 | 41 | 0.0000e+00 | true |
-| 50000 | JSOSolvers (trunk) | 1.8575375e8 | 80 | 9325136 | 21 | 1.3351e-17 | true |
-| 50000 | JSOSolvers (tron) | 2.37687375e8 | 150 | 13005696 | 23 | 2.9362e-20 | true |
-| 50000 | Ipopt | 4.03144125e8 | 1596 | 242161424 | 18 | 0.0000e+00 | true |
-| 50000 | MadNLP | 3.22807584e8 | 1363 | 271165920 | 18 | 0.0000e+00 | true |
+| 50000 | Optim (Newton) | 5.168225e7 | 634 | 172933216 | 5 | 0.0000e+00 | true |
+| 50000 | JSOSolvers (trunk) | 3.7131333e7 | 348 | 9344288 | 8 | 5.1989e-18 | false |
+| 50000 | JSOSolvers (tron) | 5.2621167e7 | 150 | 13005696 | 5 | 5.3154e-17 | false |
+| 50000 | Ipopt | 1.154690415e8 | 460 | 68746240 | 5 | 0.0000e+00 | true |
+| 50000 | MadNLP | 7.1698667e7 | 817 | 91273712 | 5 | 0.0000e+00 | true |
 | 50000 | NonlinearSolve (LM) | NaN | 0 | 0 | 0 | NaN | false |
 | 50000 | NonlinearSolve (TrustRegion) | NaN | 0 | 0 | 0 | NaN | false |
-| 50000 | CaNNOLeS | 1.185199165e8 | 228 | 77552512 | 14 | 9.7316e-17 | true |
-| 75000 | SecondOrderOptimization (Dogleg) | 9.1362875e7 | 371 | 89732656 | 16 | 1.9933e+00 | true |
-| 75000 | SecondOrderOptimization (LM) | 1.06741625e8 | 378 | 90100656 | 21 | 3.5686e-21 | true |
+| 50000 | CaNNOLeS | 4.461e7 | 228 | 78191488 | 4 | 3.3466e-17 | true |
+| 75000 | SecondOrderOptimization (Dogleg) | 3.7185333e7 | 332 | 90942256 | 5 | 0.0000e+00 | true |
+| 75000 | SecondOrderOptimization (LM) | 3.7178625e7 | 327 | 92695184 | 5 | 0.0000e+00 | true |
 | 75000 | LeastSquaresOptim (Dogleg) | NaN | 0 | 0 | 0 | NaN | false |
 | 75000 | LeastSquaresOptim (LM) | NaN | 0 | 0 | 0 | NaN | false |
 | 75000 | Optim (NewtonTrustRegion) | NaN | 0 | 0 | 0 | NaN | false |
-| 75000 | Optim (Newton) | 7.148197705e8 | 4639 | 1851129136 | 41 | 0.0000e+00 | true |
-| 75000 | JSOSolvers (trunk) | 3.7377405e9 | 92 | 13945616 | 256 | 7.8045e-20 | true |
-| 75000 | JSOSolvers (tron) | 3.170165415e8 | 150 | 19414912 | 17 | 1.2912e-20 | true |
-| 75000 | Ipopt | 6.79712479e8 | 1596 | 361109264 | 18 | 0.0000e+00 | true |
-| 75000 | MadNLP | 5.43644458e8 | 1363 | 394548704 | 18 | 0.0000e+00 | true |
+| 75000 | Optim (Newton) | 7.7526646e7 | 627 | 247103472 | 5 | 0.0000e+00 | true |
+| 75000 | JSOSolvers (trunk) | 6.0007125e7 | 80 | 13945424 | 9 | 6.8484e-20 | true |
+| 75000 | JSOSolvers (tron) | 8.7890459e7 | 150 | 19414912 | 6 | 2.4189e-18 | false |
+| 75000 | Ipopt | 1.84884917e8 | 460 | 109198336 | 5 | 0.0000e+00 | true |
+| 75000 | MadNLP | 1.073490205e8 | 817 | 135964144 | 5 | 0.0000e+00 | true |
 | 75000 | NonlinearSolve (LM) | NaN | 0 | 0 | 0 | NaN | false |
 | 75000 | NonlinearSolve (TrustRegion) | NaN | 0 | 0 | 0 | NaN | false |
-| 75000 | CaNNOLeS | 1.814180835e8 | 228 | 110156672 | 14 | 9.7316e-17 | true |
+| 75000 | CaNNOLeS | 6.6186854e7 | 228 | 110156672 | 4 | 3.3466e-17 | true |

diff --git a/docs/src/problems/rosenbrock_sparse.md b/docs/src/problems/rosenbrock_sparse.md
@@ -33,6 +33,6 @@ The full numeric benchmark measurements (cost, linear system assembly times, out
 
 ## 4. Analysis & Key Takeaways
 
-- **Model Efficiency**: At Variables n = `75000`, **`NLLSModel`** achieves the fastest Cost + Linear System evaluation at **863.71 μs** (3.4 KiB allocated).
-- **Top Converged Optimizer**: At Variables n = `75000` (8/13 solvers converged), **`SecondOrderOptimization (Dogleg)`** is fastest at **91.36 ms** (16 iterations, final cost `1.99e+00`).
+- **Model Efficiency**: At Variables n = `75000`, **`NLLSModel`** achieves the fastest Cost + Linear System evaluation at **781.58 μs** (3.4 KiB allocated).
+- **Top Converged Optimizer**: At Variables n = `75000` (7/13 solvers converged), **`SecondOrderOptimization (LM)`** is fastest at **37.18 ms** (5 iterations, final cost `0.00e+00`).
 - **Convergence Filtering**: Only runs satisfying universal convergence tolerances (`gtol = 1.0e-8`, `xtol = 1.0e-8`, `ftol = 1.0e-8`) within `500` iterations and `30.0s` are plotted.
